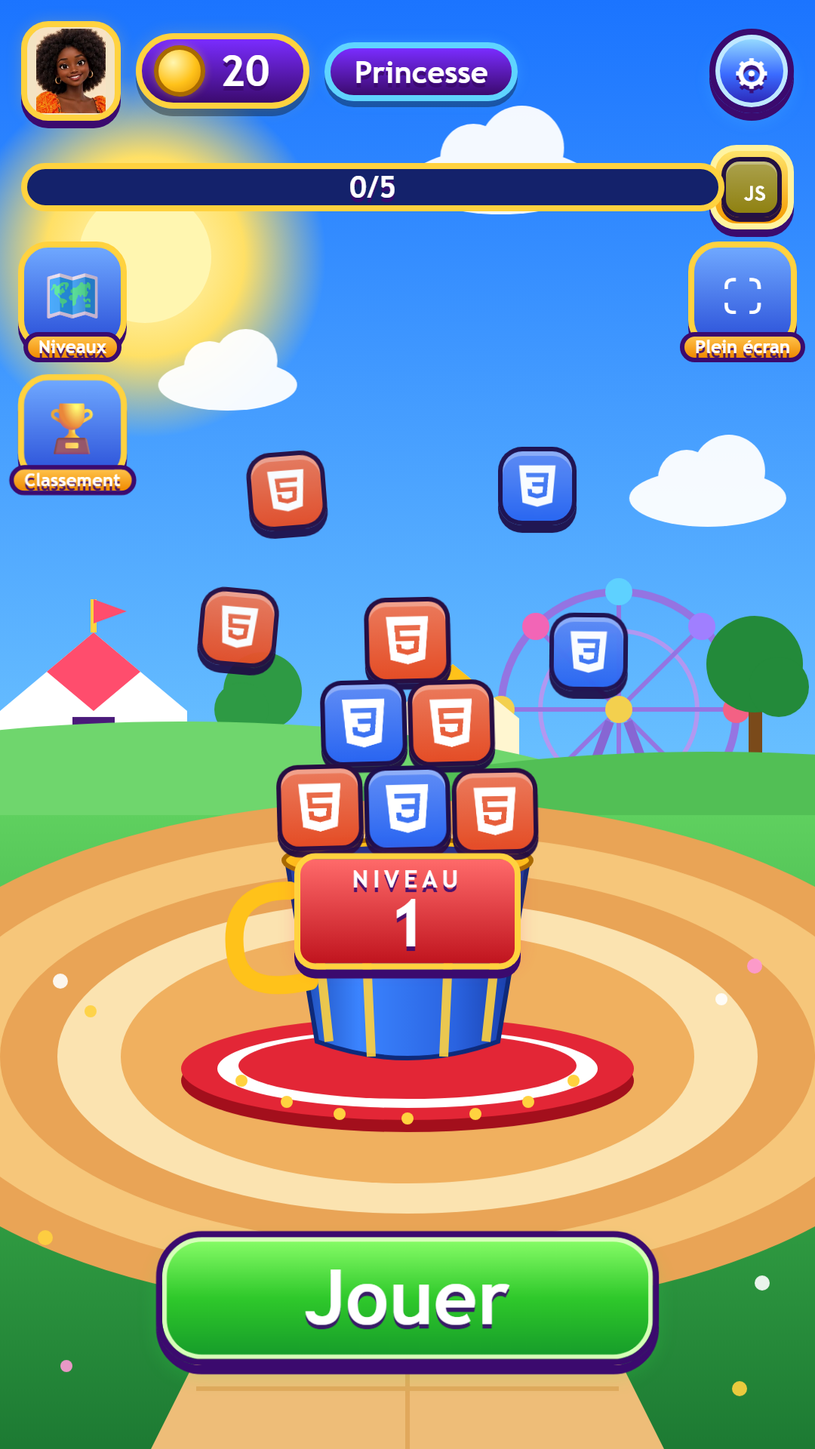
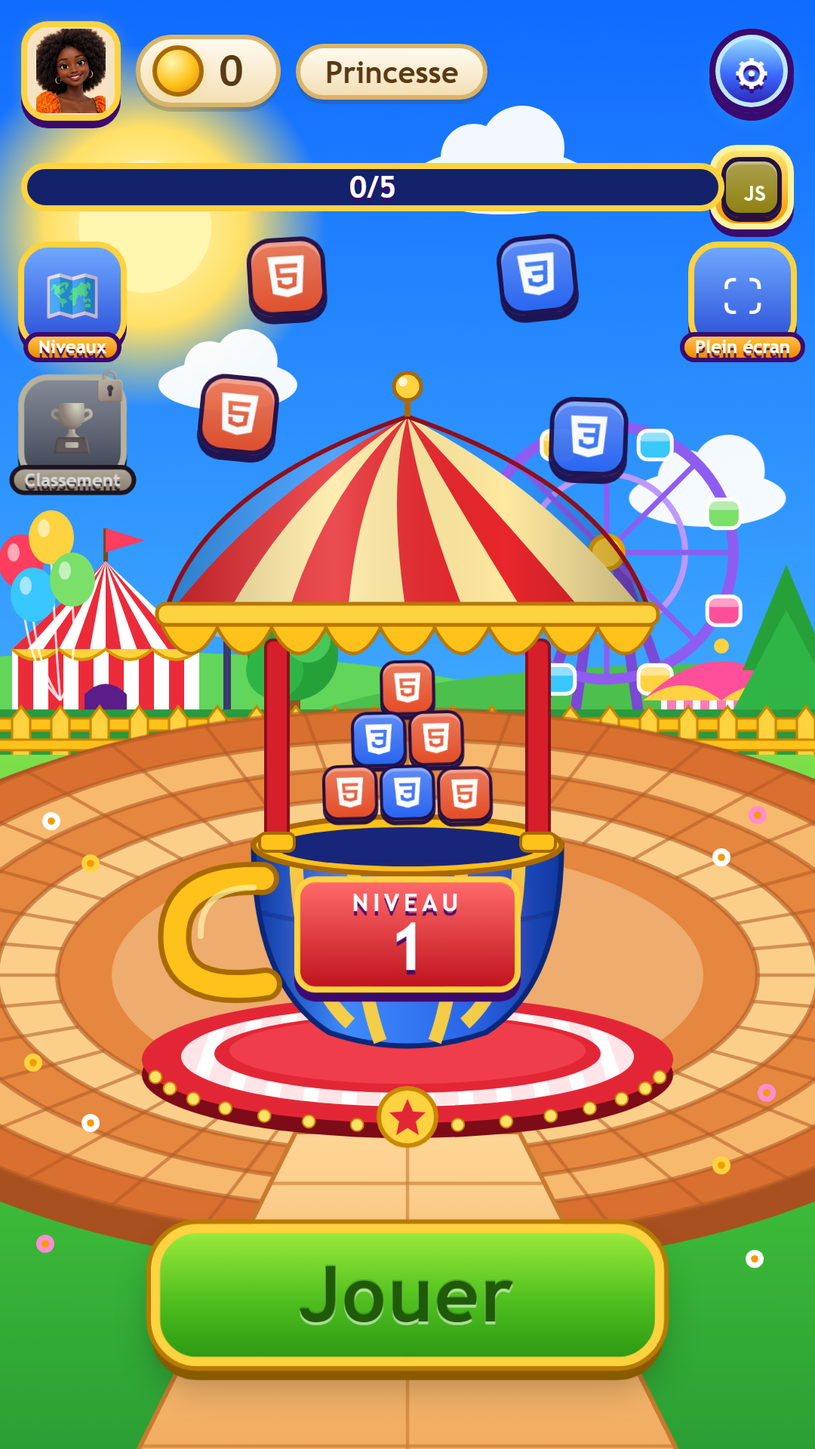
feat(accueil): nouvelle scene d'accueil (auvent rayé, gobelet, place en briques, parc d'attractions), couleurs vives, bouton Jouer et pastilles refaits, paysage gere

diff --git a/public/index.html b/public/index.html
@@ -108,39 +108,122 @@
     <!-- 2. Accueil -->
     <section id="screen-home" class="screen">
       <svg class="home-svg" viewBox="0 0 540 960" preserveAspectRatio="xMidYMax slice" aria-hidden="true">
-        <defs>
-          <linearGradient id="sky" x1="0" y1="0" x2="0" y2="1"><stop offset="0" stop-color="#1b74ff"/><stop offset=".55" stop-color="#6cc3ff"/><stop offset="1" stop-color="#e3f6ff"/></linearGradient>
-          <radialGradient id="sunG"><stop offset="0" stop-color="#fffbd0"/><stop offset=".55" stop-color="#ffe066"/><stop offset="1" stop-color="#ffe066" stop-opacity="0"/></radialGradient>
-          <linearGradient id="grass" x1="0" y1="0" x2="0" y2="1"><stop offset="0" stop-color="#5fd05f"/><stop offset=".5" stop-color="#37a847"/><stop offset="1" stop-color="#1d7a33"/></linearGradient>
-          <linearGradient id="cupG" x1="0" y1="0" x2="1" y2="0"><stop offset="0" stop-color="#173fa8"/><stop offset=".3" stop-color="#3b84ff"/><stop offset=".7" stop-color="#2a63e0"/><stop offset="1" stop-color="#14349a"/></linearGradient>
-          <pattern id="stripes" width="40" height="10" patternUnits="userSpaceOnUse"><rect width="20" height="10" fill="#ffd23f" opacity=".95"/></pattern>
-        </defs>
-        <rect width="540" height="960" fill="url(#sky)"/>
-        <circle cx="96" cy="170" r="120" fill="url(#sunG)"/><circle cx="96" cy="170" r="44" fill="#fff6b0"/>
-        <g fill="#fff" opacity=".95"><g class="svg-cloud c1"><ellipse cx="0" cy="0" rx="60" ry="22"/><circle cx="-18" cy="-16" r="22"/><circle cx="14" cy="-22" r="28"/></g><g class="svg-cloud c2"><ellipse cx="0" cy="0" rx="46" ry="17"/><circle cx="-12" cy="-12" r="17"/><circle cx="12" cy="-16" r="21"/></g><g class="svg-cloud c3"><ellipse cx="0" cy="0" rx="52" ry="19"/><circle cx="-14" cy="-13" r="19"/><circle cx="14" cy="-18" r="24"/></g></g>
-        <!-- loin : grande roue, chapiteaux, arbres -->
-        <g transform="translate(410 470)" opacity=".92"><circle r="78" fill="none" stroke="#9a6fe0" stroke-width="5"/><circle r="52" fill="none" stroke="#b995f0" stroke-width="3"/>
-          <g stroke="#9a6fe0" stroke-width="3"><line x1="-78" y1="0" x2="78" y2="0"/><line x1="0" y1="-78" x2="0" y2="78"/><line x1="-55" y1="-55" x2="55" y2="55"/><line x1="-55" y1="55" x2="55" y2="-55"/></g>
-          <g><circle cx="78" cy="0" r="9" fill="#ff5a7a"/><circle cx="-78" cy="0" r="9" fill="#ffd23f"/><circle cx="0" cy="-78" r="9" fill="#5fd4ff"/><circle cx="0" cy="78" r="9" fill="#7be06a"/><circle cx="55" cy="55" r="9" fill="#ff9a3d"/><circle cx="-55" cy="-55" r="9" fill="#ff5fb0"/><circle cx="55" cy="-55" r="9" fill="#a77bff"/><circle cx="-55" cy="55" r="9" fill="#5fd4ff"/></g>
-          <circle r="9" fill="#ffd23f"/><path d="M-6 8 L-40 100 M6 8 L40 100" stroke="#8a5fd0" stroke-width="6" fill="none"/></g>
-        <g transform="translate(62 505)"><path d="M-62 0 V-34 L0 -86 L62 -34 V0Z" fill="#fff"/><path d="M-62 -34 L0 -86 L-20 -34Z M-20 -34 L0 -86 L20 -34Z" fill="#ff4d6d" opacity=".0"/><path d="M-62 -34 L-31 -60 L0 -34 L31 -60 L62 -34 L0 -86Z" fill="#ff4d6d"/><rect x="-14" y="-30" width="28" height="30" fill="#4a1a7a"/><path d="M0 -86 V-108" stroke="#ffd23f" stroke-width="4"/><path d="M0 -108 L22 -100 L0 -92Z" fill="#ff4d6d"/></g>
-        <g transform="translate(300 500)"><path d="M-44 0 V-24 L0 -60 L44 -24 V0Z" fill="#fff6d0"/><path d="M-44 -24 L-22 -42 L0 -24 L22 -42 L44 -24 L0 -60Z" fill="#ffc21a"/></g>
-        <g fill="#2e9a44"><rect x="170" y="470" width="8" height="30" fill="#7a4a1a"/><circle cx="174" cy="458" r="26"/><circle cx="160" cy="470" r="18"/><rect x="496" y="455" width="9" height="44" fill="#7a4a1a"/><circle cx="500" cy="440" r="32" fill="#238a3a"/><circle cx="516" cy="455" r="20" fill="#238a3a"/></g>
-        <!-- collines et pelouse -->
-        <ellipse cx="120" cy="560" rx="330" ry="82" fill="#6fd66d"/><ellipse cx="470" cy="580" rx="330" ry="82" fill="#52bf55"/>
-        <rect y="540" width="540" height="420" fill="url(#grass)"/>
-        <!-- place ronde en briques -->
-        <ellipse cx="270" cy="700" rx="360" ry="170" fill="#e9a456"/><ellipse cx="270" cy="700" rx="320" ry="148" fill="#f6c67a"/><ellipse cx="270" cy="700" rx="270" ry="124" fill="#e9a456"/><ellipse cx="270" cy="700" rx="232" ry="104" fill="#fbe3b0"/><ellipse cx="270" cy="700" rx="190" ry="84" fill="#f0b05f"/>
-        <path d="M170 820 L100 960 H440 L370 820Z" fill="#eebd78"/><path d="M150 880 H390 M130 920 H410 M270 820 V960" stroke="#d99a4a" stroke-width="3" fill="none" opacity=".6"/>
-        <g opacity=".9"><circle cx="40" cy="650" r="5" fill="#fff"/><circle cx="60" cy="670" r="4" fill="#ffd23f"/><circle cx="500" cy="640" r="5" fill="#ff9ad6"/><circle cx="478" cy="662" r="4" fill="#fff"/><circle cx="30" cy="820" r="5" fill="#ffd23f"/><circle cx="505" cy="850" r="5" fill="#fff"/><circle cx="44" cy="905" r="4" fill="#ff9ad6"/><circle cx="490" cy="920" r="5" fill="#ffd23f"/></g>
-        <!-- gobelet-carrousel -->
-        <ellipse cx="270" cy="716" rx="150" ry="34" fill="#a30f1c"/><ellipse cx="270" cy="708" rx="150" ry="34" fill="#e32636"/><ellipse cx="270" cy="708" rx="126" ry="26" fill="#fff"/><ellipse cx="270" cy="706" rx="112" ry="22" fill="#e32636"/>
-        <g fill="#ffd23f"><circle cx="160" cy="716" r="4"/><circle cx="190" cy="730" r="4"/><circle cx="225" cy="738" r="4"/><circle cx="270" cy="741" r="4"/><circle cx="315" cy="738" r="4"/><circle cx="350" cy="730" r="4"/><circle cx="380" cy="716" r="4"/></g>
-        <path d="M190 570 H350 L330 690 Q270 712 210 690Z" fill="url(#cupG)" stroke="#0e2a7a" stroke-width="3"/>
-        <path d="M205 570 L218 690 M240 570 L246 700 M300 570 L294 700 M335 570 L322 690" stroke="#ffd23f" stroke-width="6" opacity=".9" fill="none"/>
-        <ellipse cx="270" cy="570" rx="82" ry="14" fill="#ffc21a" stroke="#a86a00" stroke-width="3"/><ellipse cx="270" cy="570" rx="70" ry="10" fill="#1a2f8a"/>
-        <path d="M192 590 Q150 590 156 632 Q160 660 205 650" fill="none" stroke="#ffc21a" stroke-width="12" stroke-linecap="round"/>
-      </svg>
+<defs>
+  <linearGradient id="sky" x1="0" y1="0" x2="0" y2="1"><stop offset="0" stop-color="#0f6bff"/><stop offset=".5" stop-color="#3fa9ff"/><stop offset="1" stop-color="#b9e8ff"/></linearGradient>
+  <radialGradient id="sunG"><stop offset="0" stop-color="#fffbd0"/><stop offset=".55" stop-color="#ffe066"/><stop offset="1" stop-color="#ffe066" stop-opacity="0"/></radialGradient>
+  <linearGradient id="grass" x1="0" y1="0" x2="0" y2="1"><stop offset="0" stop-color="#7be04a"/><stop offset=".5" stop-color="#3fbd3a"/><stop offset="1" stop-color="#1f8f30"/></linearGradient>
+  <linearGradient id="cupG" x1="0" y1="0" x2="1" y2="0"><stop offset="0" stop-color="#12389f"/><stop offset=".3" stop-color="#3f8bff"/><stop offset=".7" stop-color="#2a66e8"/><stop offset="1" stop-color="#12389f"/></linearGradient>
+  <linearGradient id="roofG" x1="0" y1="0" x2="1" y2="0"><stop offset="0" stop-color="#000" stop-opacity=".22"/><stop offset=".35" stop-color="#fff" stop-opacity=".18"/><stop offset=".7" stop-color="#000" stop-opacity="0"/><stop offset="1" stop-color="#000" stop-opacity=".25"/></linearGradient>
+  <linearGradient id="pathG" x1="0" y1="0" x2="0" y2="1"><stop offset="0" stop-color="#ffd696"/><stop offset="1" stop-color="#f0a85a"/></linearGradient>
+  <clipPath id="plazaClip"><ellipse cx="270" cy="742" rx="392" ry="176"/></clipPath>
+</defs>
+<rect x="-3000" width="6540" height="960" fill="url(#sky)"/>
+<circle cx="96" cy="150" r="120" fill="url(#sunG)"/><circle cx="96" cy="150" r="44" fill="#fff6b0"/>
+<g fill="#fff" opacity=".95"><g class="svg-cloud c1"><ellipse cx="0" cy="0" rx="60" ry="22"/><circle cx="-18" cy="-16" r="22"/><circle cx="14" cy="-22" r="28"/></g><g class="svg-cloud c2"><ellipse cx="0" cy="0" rx="46" ry="17"/><circle cx="-12" cy="-12" r="17"/><circle cx="12" cy="-16" r="21"/></g><g class="svg-cloud c3"><ellipse cx="0" cy="0" rx="52" ry="19"/><circle cx="-14" cy="-13" r="19"/><circle cx="14" cy="-18" r="24"/></g></g>
+<g transform="translate(0 -96)">
+<rect x="-3000" y="560" width="6540" height="40" fill="#4cc04c"/><ellipse cx="90" cy="590" rx="300" ry="62" fill="#62d65a"/><ellipse cx="470" cy="598" rx="300" ry="62" fill="#4cc04c"/>
+<g transform="translate(402 462)">
+<path d="M-6 0 L-52 128 M6 0 L52 128 M-6 0 L-24 128 M6 0 L24 128" stroke="#7a49d6" stroke-width="7" stroke-linecap="round" fill="none"/>
+<circle r="84" fill="none" stroke="#8f5cf2" stroke-width="7"/><circle r="52" fill="none" stroke="#bd98ff" stroke-width="4"/>
+<line x1="0" y1="0" x2="84.0" y2="0.0" stroke="#8f5cf2" stroke-width="3.5"/>
+<line x1="0" y1="0" x2="59.4" y2="59.4" stroke="#8f5cf2" stroke-width="3.5"/>
+<line x1="0" y1="0" x2="0.0" y2="84.0" stroke="#8f5cf2" stroke-width="3.5"/>
+<line x1="0" y1="0" x2="-59.4" y2="59.4" stroke="#8f5cf2" stroke-width="3.5"/>
+<line x1="0" y1="0" x2="-84.0" y2="0.0" stroke="#8f5cf2" stroke-width="3.5"/>
+<line x1="0" y1="0" x2="-59.4" y2="-59.4" stroke="#8f5cf2" stroke-width="3.5"/>
+<line x1="0" y1="0" x2="-0.0" y2="-84.0" stroke="#8f5cf2" stroke-width="3.5"/>
+<line x1="0" y1="0" x2="59.4" y2="-59.4" stroke="#8f5cf2" stroke-width="3.5"/>
+<g transform="translate(77.6 32.1)"><rect x="-11" y="-3" width="22" height="19" rx="6" fill="#ff4f9a" stroke="#fff" stroke-width="2.5"/><rect x="-11" y="-3" width="22" height="7" rx="3" fill="#fff" opacity=".45"/></g>
+<g transform="translate(32.1 77.6)"><rect x="-11" y="-3" width="22" height="19" rx="6" fill="#ffd23f" stroke="#fff" stroke-width="2.5"/><rect x="-11" y="-3" width="22" height="7" rx="3" fill="#fff" opacity=".45"/></g>
+<g transform="translate(-32.1 77.6)"><rect x="-11" y="-3" width="22" height="19" rx="6" fill="#38c7ff" stroke="#fff" stroke-width="2.5"/><rect x="-11" y="-3" width="22" height="7" rx="3" fill="#fff" opacity=".45"/></g>
+<g transform="translate(-77.6 32.1)"><rect x="-11" y="-3" width="22" height="19" rx="6" fill="#7be06a" stroke="#fff" stroke-width="2.5"/><rect x="-11" y="-3" width="22" height="7" rx="3" fill="#fff" opacity=".45"/></g>
+<g transform="translate(-77.6 -32.1)"><rect x="-11" y="-3" width="22" height="19" rx="6" fill="#ff4f9a" stroke="#fff" stroke-width="2.5"/><rect x="-11" y="-3" width="22" height="7" rx="3" fill="#fff" opacity=".45"/></g>
+<g transform="translate(-32.1 -77.6)"><rect x="-11" y="-3" width="22" height="19" rx="6" fill="#ffd23f" stroke="#fff" stroke-width="2.5"/><rect x="-11" y="-3" width="22" height="7" rx="3" fill="#fff" opacity=".45"/></g>
+<g transform="translate(32.1 -77.6)"><rect x="-11" y="-3" width="22" height="19" rx="6" fill="#38c7ff" stroke="#fff" stroke-width="2.5"/><rect x="-11" y="-3" width="22" height="7" rx="3" fill="#fff" opacity=".45"/></g>
+<g transform="translate(77.6 -32.1)"><rect x="-11" y="-3" width="22" height="19" rx="6" fill="#7be06a" stroke="#fff" stroke-width="2.5"/><rect x="-11" y="-3" width="22" height="7" rx="3" fill="#fff" opacity=".45"/></g>
+<circle r="11" fill="#ffd23f" stroke="#e0a000" stroke-width="3"/></g>
+<g transform="translate(70 586)">
+<rect x="-62" y="-60" width="124" height="60" fill="#fff"/>
+<rect x="-58" y="-60" width="10" height="60" fill="#ec2b3a"/>
+<rect x="-38" y="-60" width="10" height="60" fill="#ec2b3a"/>
+<rect x="-18" y="-60" width="10" height="60" fill="#ec2b3a"/>
+<rect x="2" y="-60" width="10" height="60" fill="#ec2b3a"/>
+<rect x="22" y="-60" width="10" height="60" fill="#ec2b3a"/>
+<rect x="42" y="-60" width="10" height="60" fill="#ec2b3a"/>
+<path d="M-62 -60 L0 -118 L62 -60Z" fill="#fff"/>
+<path d="M0 -118 L-62.0 -60 L-51.7 -60Z" fill="#ec2b3a"/>
+<path d="M0 -118 L-41.3 -60 L-31.0 -60Z" fill="#ec2b3a"/>
+<path d="M0 -118 L-20.7 -60 L-10.4 -60Z" fill="#ec2b3a"/>
+<path d="M0 -118 L0.0 -60 L10.3 -60Z" fill="#ec2b3a"/>
+<path d="M0 -118 L20.7 -60 L31.0 -60Z" fill="#ec2b3a"/>
+<path d="M0 -118 L41.3 -60 L51.6 -60Z" fill="#ec2b3a"/>
+<path d="M-62 -60 Q-47 -46 -31 -60 Q-16 -46 0 -60 Q16 -46 31 -60 Q47 -46 62 -60" fill="#ffd23f" stroke="#d99700" stroke-width="2"/>
+<path d="M-14 0 V-30 Q0 -44 14 -30 V0Z" fill="#5a1d8a"/><path d="M0 -118 V-140" stroke="#7a4a1a" stroke-width="3"/><path d="M0 -140 L26 -132 L0 -124Z" fill="#ff3d5e"/></g>
+<path d="M14 484 Q18 540 40 560" stroke="#fff" stroke-width="1.5" fill="none" opacity=".8"/><ellipse cx="14" cy="468" rx="15" ry="18" fill="#ff3d5e"/><ellipse cx="9" cy="462" rx="4" ry="6" fill="#fff" opacity=".55"/>
+<path d="M34 468 Q38 540 40 560" stroke="#fff" stroke-width="1.5" fill="none" opacity=".8"/><ellipse cx="34" cy="452" rx="15" ry="18" fill="#ffd23f"/><ellipse cx="29" cy="446" rx="4" ry="6" fill="#fff" opacity=".55"/>
+<path d="M22 506 Q26 540 40 560" stroke="#fff" stroke-width="1.5" fill="none" opacity=".8"/><ellipse cx="22" cy="490" rx="15" ry="18" fill="#38c7ff"/><ellipse cx="17" cy="484" rx="4" ry="6" fill="#fff" opacity=".55"/>
+<path d="M48 496 Q52 540 40 560" stroke="#fff" stroke-width="1.5" fill="none" opacity=".8"/><ellipse cx="48" cy="480" rx="15" ry="18" fill="#7be06a"/><ellipse cx="43" cy="474" rx="4" ry="6" fill="#fff" opacity=".55"/>
+<g transform="translate(478 586)"><rect x="-40" y="-26" width="80" height="26" fill="#fff"/>
+<rect x="-36" y="-26" width="6" height="26" fill="#ff7ab8"/>
+<rect x="-25" y="-26" width="6" height="26" fill="#ff7ab8"/>
+<rect x="-14" y="-26" width="6" height="26" fill="#ff7ab8"/>
+<rect x="-3" y="-26" width="6" height="26" fill="#ff7ab8"/>
+<rect x="8" y="-26" width="6" height="26" fill="#ff7ab8"/>
+<rect x="19" y="-26" width="6" height="26" fill="#ff7ab8"/>
+<rect x="30" y="-26" width="6" height="26" fill="#ff7ab8"/>
+<path d="M-52 -26 Q0 -78 52 -26Z" fill="#ff4f9a"/><path d="M-52 -26 Q-26 -46 0 -26 Q26 -46 52 -26" fill="#ffd23f"/><circle cx="0" cy="-62" r="5" fill="#ffd23f"/></g>
+<g><rect x="190" y="548" width="9" height="36" fill="#8a5a22"/><circle cx="194" cy="530" r="30" fill="#26a13a"/><circle cx="182" cy="540" r="19" fill="#2fb546"/><circle cx="204" cy="520" r="15" fill="#46c95a"/></g>
+<g><rect x="516" y="548" width="10" height="38" fill="#8a5a22"/><path d="M521 470 L492 540 L550 540Z" fill="#26a13a"/><path d="M521 500 L486 566 L556 566Z" fill="#2fb546"/></g>
+<g><rect x="148" y="508" width="5" height="78" fill="#3b3b6e"/><rect x="141" y="494" width="19" height="18" rx="5" fill="#ffd23f" stroke="#b07a00" stroke-width="2"/><circle cx="150" cy="503" r="16" fill="#ffe680" opacity=".4"/></g>
+<rect x="-3000" y="566" width="6540" height="30" rx="14" fill="#2a9a3e"/>
+<rect x="-3000" y="572" width="6540" height="8" fill="#ffc21a" stroke="#c98800" stroke-width="1.5"/>
+<path d="M-1500 600 V572 L-1494 564 L-1488 572 V600Z" fill="#ffd23f" stroke="#c98800" stroke-width="1.6"/><path d="M-1474 600 V572 L-1468 564 L-1462 572 V600Z" fill="#ffd23f" stroke="#c98800" stroke-width="1.6"/><path d="M-1448 600 V572 L-1442 564 L-1436 572 V600Z" fill="#ffd23f" stroke="#c98800" stroke-width="1.6"/><path d="M-1422 600 V572 L-1416 564 L-1410 572 V600Z" fill="#ffd23f" stroke="#c98800" stroke-width="1.6"/><path d="M-1396 600 V572 L-1390 564 L-1384 572 V600Z" fill="#ffd23f" stroke="#c98800" stroke-width="1.6"/><path d="M-1370 600 V572 L-1364 564 L-1358 572 V600Z" fill="#ffd23f" stroke="#c98800" stroke-width="1.6"/><path d="M-1344 600 V572 L-1338 564 L-1332 572 V600Z" fill="#ffd23f" stroke="#c98800" stroke-width="1.6"/><path d="M-1318 600 V572 L-1312 564 L-1306 572 V600Z" fill="#ffd23f" stroke="#c98800" stroke-width="1.6"/><path d="M-1292 600 V572 L-1286 564 L-1280 572 V600Z" fill="#ffd23f" stroke="#c98800" stroke-width="1.6"/><path d="M-1266 600 V572 L-1260 564 L-1254 572 V600Z" fill="#ffd23f" stroke="#c98800" stroke-width="1.6"/><path d="M-1240 600 V572 L-1234 564 L-1228 572 V600Z" fill="#ffd23f" stroke="#c98800" stroke-width="1.6"/><path d="M-1214 600 V572 L-1208 564 L-1202 572 V600Z" fill="#ffd23f" stroke="#c98800" stroke-width="1.6"/><path d="M-1188 600 V572 L-1182 564 L-1176 572 V600Z" fill="#ffd23f" stroke="#c98800" stroke-width="1.6"/><path d="M-1162 600 V572 L-1156 564 L-1150 572 V600Z" fill="#ffd23f" stroke="#c98800" stroke-width="1.6"/><path d="M-1136 600 V572 L-1130 564 L-1124 572 V600Z" fill="#ffd23f" stroke="#c98800" stroke-width="1.6"/><path d="M-1110 600 V572 L-1104 564 L-1098 572 V600Z" fill="#ffd23f" stroke="#c98800" stroke-width="1.6"/><path d="M-1084 600 V572 L-1078 564 L-1072 572 V600Z" fill="#ffd23f" stroke="#c98800" stroke-width="1.6"/><path d="M-1058 600 V572 L-1052 564 L-1046 572 V600Z" fill="#ffd23f" stroke="#c98800" stroke-width="1.6"/><path d="M-1032 600 V572 L-1026 564 L-1020 572 V600Z" fill="#ffd23f" stroke="#c98800" stroke-width="1.6"/><path d="M-1006 600 V572 L-1000 564 L-994 572 V600Z" fill="#ffd23f" stroke="#c98800" stroke-width="1.6"/><path d="M-980 600 V572 L-974 564 L-968 572 V600Z" fill="#ffd23f" stroke="#c98800" stroke-width="1.6"/><path d="M-954 600 V572 L-948 564 L-942 572 V600Z" fill="#ffd23f" stroke="#c98800" stroke-width="1.6"/><path d="M-928 600 V572 L-922 564 L-916 572 V600Z" fill="#ffd23f" stroke="#c98800" stroke-width="1.6"/><path d="M-902 600 V572 L-896 564 L-890 572 V600Z" fill="#ffd23f" stroke="#c98800" stroke-width="1.6"/><path d="M-876 600 V572 L-870 564 L-864 572 V600Z" fill="#ffd23f" stroke="#c98800" stroke-width="1.6"/><path d="M-850 600 V572 L-844 564 L-838 572 V600Z" fill="#ffd23f" stroke="#c98800" stroke-width="1.6"/><path d="M-824 600 V572 L-818 564 L-812 572 V600Z" fill="#ffd23f" stroke="#c98800" stroke-width="1.6"/><path d="M-798 600 V572 L-792 564 L-786 572 V600Z" fill="#ffd23f" stroke="#c98800" stroke-width="1.6"/><path d="M-772 600 V572 L-766 564 L-760 572 V600Z" fill="#ffd23f" stroke="#c98800" stroke-width="1.6"/><path d="M-746 600 V572 L-740 564 L-734 572 V600Z" fill="#ffd23f" stroke="#c98800" stroke-width="1.6"/><path d="M-720 600 V572 L-714 564 L-708 572 V600Z" fill="#ffd23f" stroke="#c98800" stroke-width="1.6"/><path d="M-694 600 V572 L-688 564 L-682 572 V600Z" fill="#ffd23f" stroke="#c98800" stroke-width="1.6"/><path d="M-668 600 V572 L-662 564 L-656 572 V600Z" fill="#ffd23f" stroke="#c98800" stroke-width="1.6"/><path d="M-642 600 V572 L-636 564 L-630 572 V600Z" fill="#ffd23f" stroke="#c98800" stroke-width="1.6"/><path d="M-616 600 V572 L-610 564 L-604 572 V600Z" fill="#ffd23f" stroke="#c98800" stroke-width="1.6"/><path d="M-590 600 V572 L-584 564 L-578 572 V600Z" fill="#ffd23f" stroke="#c98800" stroke-width="1.6"/><path d="M-564 600 V572 L-558 564 L-552 572 V600Z" fill="#ffd23f" stroke="#c98800" stroke-width="1.6"/><path d="M-538 600 V572 L-532 564 L-526 572 V600Z" fill="#ffd23f" stroke="#c98800" stroke-width="1.6"/><path d="M-512 600 V572 L-506 564 L-500 572 V600Z" fill="#ffd23f" stroke="#c98800" stroke-width="1.6"/><path d="M-486 600 V572 L-480 564 L-474 572 V600Z" fill="#ffd23f" stroke="#c98800" stroke-width="1.6"/><path d="M-460 600 V572 L-454 564 L-448 572 V600Z" fill="#ffd23f" stroke="#c98800" stroke-width="1.6"/><path d="M-434 600 V572 L-428 564 L-422 572 V600Z" fill="#ffd23f" stroke="#c98800" stroke-width="1.6"/><path d="M-408 600 V572 L-402 564 L-396 572 V600Z" fill="#ffd23f" stroke="#c98800" stroke-width="1.6"/><path d="M-382 600 V572 L-376 564 L-370 572 V600Z" fill="#ffd23f" stroke="#c98800" stroke-width="1.6"/><path d="M-356 600 V572 L-350 564 L-344 572 V600Z" fill="#ffd23f" stroke="#c98800" stroke-width="1.6"/><path d="M-330 600 V572 L-324 564 L-318 572 V600Z" fill="#ffd23f" stroke="#c98800" stroke-width="1.6"/><path d="M-304 600 V572 L-298 564 L-292 572 V600Z" fill="#ffd23f" stroke="#c98800" stroke-width="1.6"/><path d="M-278 600 V572 L-272 564 L-266 572 V600Z" fill="#ffd23f" stroke="#c98800" stroke-width="1.6"/><path d="M-252 600 V572 L-246 564 L-240 572 V600Z" fill="#ffd23f" stroke="#c98800" stroke-width="1.6"/><path d="M-226 600 V572 L-220 564 L-214 572 V600Z" fill="#ffd23f" stroke="#c98800" stroke-width="1.6"/><path d="M-200 600 V572 L-194 564 L-188 572 V600Z" fill="#ffd23f" stroke="#c98800" stroke-width="1.6"/><path d="M-174 600 V572 L-168 564 L-162 572 V600Z" fill="#ffd23f" stroke="#c98800" stroke-width="1.6"/><path d="M-148 600 V572 L-142 564 L-136 572 V600Z" fill="#ffd23f" stroke="#c98800" stroke-width="1.6"/><path d="M-122 600 V572 L-116 564 L-110 572 V600Z" fill="#ffd23f" stroke="#c98800" stroke-width="1.6"/><path d="M-96 600 V572 L-90 564 L-84 572 V600Z" fill="#ffd23f" stroke="#c98800" stroke-width="1.6"/><path d="M-70 600 V572 L-64 564 L-58 572 V600Z" fill="#ffd23f" stroke="#c98800" stroke-width="1.6"/><path d="M-44 600 V572 L-38 564 L-32 572 V600Z" fill="#ffd23f" stroke="#c98800" stroke-width="1.6"/><path d="M-18 600 V572 L-12 564 L-6 572 V600Z" fill="#ffd23f" stroke="#c98800" stroke-width="1.6"/><path d="M8 600 V572 L14 564 L20 572 V600Z" fill="#ffd23f" stroke="#c98800" stroke-width="1.6"/><path d="M34 600 V572 L40 564 L46 572 V600Z" fill="#ffd23f" stroke="#c98800" stroke-width="1.6"/><path d="M60 600 V572 L66 564 L72 572 V600Z" fill="#ffd23f" stroke="#c98800" stroke-width="1.6"/><path d="M86 600 V572 L92 564 L98 572 V600Z" fill="#ffd23f" stroke="#c98800" stroke-width="1.6"/><path d="M112 600 V572 L118 564 L124 572 V600Z" fill="#ffd23f" stroke="#c98800" stroke-width="1.6"/><path d="M138 600 V572 L144 564 L150 572 V600Z" fill="#ffd23f" stroke="#c98800" stroke-width="1.6"/><path d="M164 600 V572 L170 564 L176 572 V600Z" fill="#ffd23f" stroke="#c98800" stroke-width="1.6"/><path d="M190 600 V572 L196 564 L202 572 V600Z" fill="#ffd23f" stroke="#c98800" stroke-width="1.6"/><path d="M216 600 V572 L222 564 L228 572 V600Z" fill="#ffd23f" stroke="#c98800" stroke-width="1.6"/><path d="M242 600 V572 L248 564 L254 572 V600Z" fill="#ffd23f" stroke="#c98800" stroke-width="1.6"/><path d="M268 600 V572 L274 564 L280 572 V600Z" fill="#ffd23f" stroke="#c98800" stroke-width="1.6"/><path d="M294 600 V572 L300 564 L306 572 V600Z" fill="#ffd23f" stroke="#c98800" stroke-width="1.6"/><path d="M320 600 V572 L326 564 L332 572 V600Z" fill="#ffd23f" stroke="#c98800" stroke-width="1.6"/><path d="M346 600 V572 L352 564 L358 572 V600Z" fill="#ffd23f" stroke="#c98800" stroke-width="1.6"/><path d="M372 600 V572 L378 564 L384 572 V600Z" fill="#ffd23f" stroke="#c98800" stroke-width="1.6"/><path d="M398 600 V572 L404 564 L410 572 V600Z" fill="#ffd23f" stroke="#c98800" stroke-width="1.6"/><path d="M424 600 V572 L430 564 L436 572 V600Z" fill="#ffd23f" stroke="#c98800" stroke-width="1.6"/><path d="M450 600 V572 L456 564 L462 572 V600Z" fill="#ffd23f" stroke="#c98800" stroke-width="1.6"/><path d="M476 600 V572 L482 564 L488 572 V600Z" fill="#ffd23f" stroke="#c98800" stroke-width="1.6"/><path d="M502 600 V572 L508 564 L514 572 V600Z" fill="#ffd23f" stroke="#c98800" stroke-width="1.6"/><path d="M528 600 V572 L534 564 L540 572 V600Z" fill="#ffd23f" stroke="#c98800" stroke-width="1.6"/><path d="M554 600 V572 L560 564 L566 572 V600Z" fill="#ffd23f" stroke="#c98800" stroke-width="1.6"/><path d="M580 600 V572 L586 564 L592 572 V600Z" fill="#ffd23f" stroke="#c98800" stroke-width="1.6"/><path d="M606 600 V572 L612 564 L618 572 V600Z" fill="#ffd23f" stroke="#c98800" stroke-width="1.6"/><path d="M632 600 V572 L638 564 L644 572 V600Z" fill="#ffd23f" stroke="#c98800" stroke-width="1.6"/><path d="M658 600 V572 L664 564 L670 572 V600Z" fill="#ffd23f" stroke="#c98800" stroke-width="1.6"/><path d="M684 600 V572 L690 564 L696 572 V600Z" fill="#ffd23f" stroke="#c98800" stroke-width="1.6"/><path d="M710 600 V572 L716 564 L722 572 V600Z" fill="#ffd23f" stroke="#c98800" stroke-width="1.6"/><path d="M736 600 V572 L742 564 L748 572 V600Z" fill="#ffd23f" stroke="#c98800" stroke-width="1.6"/><path d="M762 600 V572 L768 564 L774 572 V600Z" fill="#ffd23f" stroke="#c98800" stroke-width="1.6"/><path d="M788 600 V572 L794 564 L800 572 V600Z" fill="#ffd23f" stroke="#c98800" stroke-width="1.6"/><path d="M814 600 V572 L820 564 L826 572 V600Z" fill="#ffd23f" stroke="#c98800" stroke-width="1.6"/><path d="M840 600 V572 L846 564 L852 572 V600Z" fill="#ffd23f" stroke="#c98800" stroke-width="1.6"/><path d="M866 600 V572 L872 564 L878 572 V600Z" fill="#ffd23f" stroke="#c98800" stroke-width="1.6"/><path d="M892 600 V572 L898 564 L904 572 V600Z" fill="#ffd23f" stroke="#c98800" stroke-width="1.6"/><path d="M918 600 V572 L924 564 L930 572 V600Z" fill="#ffd23f" stroke="#c98800" stroke-width="1.6"/><path d="M944 600 V572 L950 564 L956 572 V600Z" fill="#ffd23f" stroke="#c98800" stroke-width="1.6"/><path d="M970 600 V572 L976 564 L982 572 V600Z" fill="#ffd23f" stroke="#c98800" stroke-width="1.6"/><path d="M996 600 V572 L1002 564 L1008 572 V600Z" fill="#ffd23f" stroke="#c98800" stroke-width="1.6"/><path d="M1022 600 V572 L1028 564 L1034 572 V600Z" fill="#ffd23f" stroke="#c98800" stroke-width="1.6"/><path d="M1048 600 V572 L1054 564 L1060 572 V600Z" fill="#ffd23f" stroke="#c98800" stroke-width="1.6"/><path d="M1074 600 V572 L1080 564 L1086 572 V600Z" fill="#ffd23f" stroke="#c98800" stroke-width="1.6"/><path d="M1100 600 V572 L1106 564 L1112 572 V600Z" fill="#ffd23f" stroke="#c98800" stroke-width="1.6"/><path d="M1126 600 V572 L1132 564 L1138 572 V600Z" fill="#ffd23f" stroke="#c98800" stroke-width="1.6"/><path d="M1152 600 V572 L1158 564 L1164 572 V600Z" fill="#ffd23f" stroke="#c98800" stroke-width="1.6"/><path d="M1178 600 V572 L1184 564 L1190 572 V600Z" fill="#ffd23f" stroke="#c98800" stroke-width="1.6"/><path d="M1204 600 V572 L1210 564 L1216 572 V600Z" fill="#ffd23f" stroke="#c98800" stroke-width="1.6"/><path d="M1230 600 V572 L1236 564 L1242 572 V600Z" fill="#ffd23f" stroke="#c98800" stroke-width="1.6"/><path d="M1256 600 V572 L1262 564 L1268 572 V600Z" fill="#ffd23f" stroke="#c98800" stroke-width="1.6"/><path d="M1282 600 V572 L1288 564 L1294 572 V600Z" fill="#ffd23f" stroke="#c98800" stroke-width="1.6"/><path d="M1308 600 V572 L1314 564 L1320 572 V600Z" fill="#ffd23f" stroke="#c98800" stroke-width="1.6"/><path d="M1334 600 V572 L1340 564 L1346 572 V600Z" fill="#ffd23f" stroke="#c98800" stroke-width="1.6"/><path d="M1360 600 V572 L1366 564 L1372 572 V600Z" fill="#ffd23f" stroke="#c98800" stroke-width="1.6"/><path d="M1386 600 V572 L1392 564 L1398 572 V600Z" fill="#ffd23f" stroke="#c98800" stroke-width="1.6"/><path d="M1412 600 V572 L1418 564 L1424 572 V600Z" fill="#ffd23f" stroke="#c98800" stroke-width="1.6"/><path d="M1438 600 V572 L1444 564 L1450 572 V600Z" fill="#ffd23f" stroke="#c98800" stroke-width="1.6"/><path d="M1464 600 V572 L1470 564 L1476 572 V600Z" fill="#ffd23f" stroke="#c98800" stroke-width="1.6"/><path d="M1490 600 V572 L1496 564 L1502 572 V600Z" fill="#ffd23f" stroke="#c98800" stroke-width="1.6"/><path d="M1516 600 V572 L1522 564 L1528 572 V600Z" fill="#ffd23f" stroke="#c98800" stroke-width="1.6"/><path d="M1542 600 V572 L1548 564 L1554 572 V600Z" fill="#ffd23f" stroke="#c98800" stroke-width="1.6"/><path d="M1568 600 V572 L1574 564 L1580 572 V600Z" fill="#ffd23f" stroke="#c98800" stroke-width="1.6"/><path d="M1594 600 V572 L1600 564 L1606 572 V600Z" fill="#ffd23f" stroke="#c98800" stroke-width="1.6"/><path d="M1620 600 V572 L1626 564 L1632 572 V600Z" fill="#ffd23f" stroke="#c98800" stroke-width="1.6"/><path d="M1646 600 V572 L1652 564 L1658 572 V600Z" fill="#ffd23f" stroke="#c98800" stroke-width="1.6"/><path d="M1672 600 V572 L1678 564 L1684 572 V600Z" fill="#ffd23f" stroke="#c98800" stroke-width="1.6"/><path d="M1698 600 V572 L1704 564 L1710 572 V600Z" fill="#ffd23f" stroke="#c98800" stroke-width="1.6"/><path d="M1724 600 V572 L1730 564 L1736 572 V600Z" fill="#ffd23f" stroke="#c98800" stroke-width="1.6"/><path d="M1750 600 V572 L1756 564 L1762 572 V600Z" fill="#ffd23f" stroke="#c98800" stroke-width="1.6"/><path d="M1776 600 V572 L1782 564 L1788 572 V600Z" fill="#ffd23f" stroke="#c98800" stroke-width="1.6"/><path d="M1802 600 V572 L1808 564 L1814 572 V600Z" fill="#ffd23f" stroke="#c98800" stroke-width="1.6"/><path d="M1828 600 V572 L1834 564 L1840 572 V600Z" fill="#ffd23f" stroke="#c98800" stroke-width="1.6"/><path d="M1854 600 V572 L1860 564 L1866 572 V600Z" fill="#ffd23f" stroke="#c98800" stroke-width="1.6"/><path d="M1880 600 V572 L1886 564 L1892 572 V600Z" fill="#ffd23f" stroke="#c98800" stroke-width="1.6"/><path d="M1906 600 V572 L1912 564 L1918 572 V600Z" fill="#ffd23f" stroke="#c98800" stroke-width="1.6"/><path d="M1932 600 V572 L1938 564 L1944 572 V600Z" fill="#ffd23f" stroke="#c98800" stroke-width="1.6"/><path d="M1958 600 V572 L1964 564 L1970 572 V600Z" fill="#ffd23f" stroke="#c98800" stroke-width="1.6"/><path d="M1984 600 V572 L1990 564 L1996 572 V600Z" fill="#ffd23f" stroke="#c98800" stroke-width="1.6"/>
+<rect x="-3000" y="586" width="6540" height="7" fill="#ffc21a" stroke="#c98800" stroke-width="1.5"/>
+<!-- pelouse et place -->
+<rect x="-3000" y="596" width="6540" height="560" fill="url(#grass)"/>
+<ellipse cx="60" cy="660" rx="140" ry="22" fill="#8bea55" opacity=".35"/><ellipse cx="480" cy="690" rx="150" ry="24" fill="#8bea55" opacity=".3"/>
+<ellipse cx="270" cy="752" rx="410" ry="186" fill="#a8501f"/>
+<ellipse cx="270" cy="742" rx="392" ry="176" fill="#d9702f"/>
+<ellipse cx="270" cy="742" rx="352" ry="156" fill="#f7b96d"/>
+<ellipse cx="270" cy="742" rx="312" ry="138" fill="#e5873e"/>
+<ellipse cx="270" cy="742" rx="272" ry="118" fill="#fbcf8a"/>
+<ellipse cx="270" cy="742" rx="232" ry="100" fill="#e5873e"/>
+<g clip-path="url(#plazaClip)"><line x1="502.0" y1="742.0" x2="662.0" y2="742.0" stroke="#b35a25" stroke-width="2.2" opacity=".55"/><line x1="498.5" y1="759.4" x2="656.0" y2="772.6" stroke="#b35a25" stroke-width="2.2" opacity=".55"/><line x1="488.0" y1="776.2" x2="638.4" y2="802.2" stroke="#b35a25" stroke-width="2.2" opacity=".55"/><line x1="470.9" y1="792.0" x2="609.5" y2="830.0" stroke="#b35a25" stroke-width="2.2" opacity=".55"/><line x1="447.7" y1="806.3" x2="570.3" y2="855.1" stroke="#b35a25" stroke-width="2.2" opacity=".55"/><line x1="419.1" y1="818.6" x2="522.0" y2="876.8" stroke="#b35a25" stroke-width="2.2" opacity=".55"/><line x1="386.0" y1="828.6" x2="466.0" y2="894.4" stroke="#b35a25" stroke-width="2.2" opacity=".55"/><line x1="349.3" y1="836.0" x2="404.1" y2="907.4" stroke="#b35a25" stroke-width="2.2" opacity=".55"/><line x1="310.3" y1="840.5" x2="338.1" y2="915.3" stroke="#b35a25" stroke-width="2.2" opacity=".55"/><line x1="270.0" y1="842.0" x2="270.0" y2="918.0" stroke="#b35a25" stroke-width="2.2" opacity=".55"/><line x1="229.7" y1="840.5" x2="201.9" y2="915.3" stroke="#b35a25" stroke-width="2.2" opacity=".55"/><line x1="190.7" y1="836.0" x2="135.9" y2="907.4" stroke="#b35a25" stroke-width="2.2" opacity=".55"/><line x1="154.0" y1="828.6" x2="74.0" y2="894.4" stroke="#b35a25" stroke-width="2.2" opacity=".55"/><line x1="120.9" y1="818.6" x2="18.0" y2="876.8" stroke="#b35a25" stroke-width="2.2" opacity=".55"/><line x1="92.3" y1="806.3" x2="-30.3" y2="855.1" stroke="#b35a25" stroke-width="2.2" opacity=".55"/><line x1="69.1" y1="792.0" x2="-69.5" y2="830.0" stroke="#b35a25" stroke-width="2.2" opacity=".55"/><line x1="52.0" y1="776.2" x2="-98.4" y2="802.2" stroke="#b35a25" stroke-width="2.2" opacity=".55"/><line x1="41.5" y1="759.4" x2="-116.0" y2="772.6" stroke="#b35a25" stroke-width="2.2" opacity=".55"/><line x1="38.0" y1="742.0" x2="-122.0" y2="742.0" stroke="#b35a25" stroke-width="2.2" opacity=".55"/><line x1="41.5" y1="724.6" x2="-116.0" y2="711.4" stroke="#b35a25" stroke-width="2.2" opacity=".55"/><line x1="52.0" y1="707.8" x2="-98.4" y2="681.8" stroke="#b35a25" stroke-width="2.2" opacity=".55"/><line x1="69.1" y1="692.0" x2="-69.5" y2="654.0" stroke="#b35a25" stroke-width="2.2" opacity=".55"/><line x1="92.3" y1="677.7" x2="-30.3" y2="628.9" stroke="#b35a25" stroke-width="2.2" opacity=".55"/><line x1="120.9" y1="665.4" x2="18.0" y2="607.2" stroke="#b35a25" stroke-width="2.2" opacity=".55"/><line x1="154.0" y1="655.4" x2="74.0" y2="589.6" stroke="#b35a25" stroke-width="2.2" opacity=".55"/><line x1="190.7" y1="648.0" x2="135.9" y2="576.6" stroke="#b35a25" stroke-width="2.2" opacity=".55"/><line x1="229.7" y1="643.5" x2="201.9" y2="568.7" stroke="#b35a25" stroke-width="2.2" opacity=".55"/><line x1="270.0" y1="642.0" x2="270.0" y2="566.0" stroke="#b35a25" stroke-width="2.2" opacity=".55"/><line x1="310.3" y1="643.5" x2="338.1" y2="568.7" stroke="#b35a25" stroke-width="2.2" opacity=".55"/><line x1="349.3" y1="648.0" x2="404.1" y2="576.6" stroke="#b35a25" stroke-width="2.2" opacity=".55"/><line x1="386.0" y1="655.4" x2="466.0" y2="589.6" stroke="#b35a25" stroke-width="2.2" opacity=".55"/><line x1="419.1" y1="665.4" x2="522.0" y2="607.2" stroke="#b35a25" stroke-width="2.2" opacity=".55"/><line x1="447.7" y1="677.7" x2="570.3" y2="628.9" stroke="#b35a25" stroke-width="2.2" opacity=".55"/><line x1="470.9" y1="692.0" x2="609.5" y2="654.0" stroke="#b35a25" stroke-width="2.2" opacity=".55"/><line x1="488.0" y1="707.8" x2="638.4" y2="681.8" stroke="#b35a25" stroke-width="2.2" opacity=".55"/><line x1="498.5" y1="724.6" x2="656.0" y2="711.4" stroke="#b35a25" stroke-width="2.2" opacity=".55"/></g>
+<ellipse cx="270" cy="742" rx="392" ry="176" fill="none" stroke="#b35a25" stroke-width="3" opacity=".6"/>
+<ellipse cx="270" cy="742" rx="352" ry="156" fill="none" stroke="#b35a25" stroke-width="3" opacity=".6"/>
+<ellipse cx="270" cy="742" rx="312" ry="138" fill="none" stroke="#b35a25" stroke-width="3" opacity=".6"/>
+<ellipse cx="270" cy="742" rx="272" ry="118" fill="none" stroke="#b35a25" stroke-width="3" opacity=".6"/>
+<ellipse cx="270" cy="742" rx="232" ry="100" fill="none" stroke="#b35a25" stroke-width="3" opacity=".6"/>
+<ellipse cx="270" cy="742" rx="196" ry="84" fill="#fff0c8" opacity=".35"/>
+<path d="M196 846 L80 1080 H460 L344 846Z" fill="url(#pathG)" stroke="#c97a2e" stroke-width="3"/>
+<line x1="179" y1="880" x2="361" y2="880" stroke="#c97a2e" stroke-width="2.2" opacity=".6"/><line x1="160" y1="918" x2="380" y2="918" stroke="#c97a2e" stroke-width="2.2" opacity=".6"/><line x1="139" y1="960" x2="401" y2="960" stroke="#c97a2e" stroke-width="2.2" opacity=".6"/><line x1="117" y1="1006" x2="423" y2="1006" stroke="#c97a2e" stroke-width="2.2" opacity=".6"/><line x1="93" y1="1054" x2="447" y2="1054" stroke="#c97a2e" stroke-width="2.2" opacity=".6"/><line x1="270" y1="846" x2="270" y2="1080" stroke="#c97a2e" stroke-width="2.2" opacity=".6"/>
+<g><circle cx="34" cy="640" r="6" fill="#fff"/><circle cx="34" cy="640" r="2.4" fill="#f59a00"/><circle cx="60" cy="668" r="6" fill="#ffd23f"/><circle cx="60" cy="668" r="2.4" fill="#f59a00"/><circle cx="502" cy="636" r="6" fill="#ff8ed0"/><circle cx="502" cy="636" r="2.4" fill="#f59a00"/><circle cx="478" cy="664" r="6" fill="#fff"/><circle cx="478" cy="664" r="2.4" fill="#f59a00"/><circle cx="22" cy="800" r="6" fill="#ffd23f"/><circle cx="22" cy="800" r="2.4" fill="#f59a00"/><circle cx="60" cy="840" r="6" fill="#fff"/><circle cx="60" cy="840" r="2.4" fill="#f59a00"/><circle cx="508" cy="820" r="6" fill="#ff8ed0"/><circle cx="508" cy="820" r="2.4" fill="#f59a00"/><circle cx="478" cy="868" r="6" fill="#ffd23f"/><circle cx="478" cy="868" r="2.4" fill="#f59a00"/><circle cx="30" cy="920" r="6" fill="#ff8ed0"/><circle cx="30" cy="920" r="2.4" fill="#f59a00"/><circle cx="500" cy="930" r="6" fill="#fff"/><circle cx="500" cy="930" r="2.4" fill="#f59a00"/></g>
+<!-- socle -->
+<ellipse cx="270" cy="808" rx="176" ry="42" fill="#7d0b18"/>
+<ellipse cx="270" cy="798" rx="176" ry="42" fill="#e32636"/>
+<ellipse cx="270" cy="796" rx="150" ry="33" fill="#fff"/>
+<clipPath id="baseIn"><ellipse cx="270" cy="796" rx="150" ry="33"/></clipPath><g clip-path="url(#baseIn)"><path d="M132 765 L144 765 L122 828 L106 828Z" fill="#ffd0d6" opacity=".55"/><path d="M154 765 L166 765 L148 828 L132 828Z" fill="#ffd0d6" opacity=".55"/><path d="M176 765 L188 765 L174 828 L158 828Z" fill="#ffd0d6" opacity=".55"/><path d="M198 765 L210 765 L200 828 L184 828Z" fill="#ffd0d6" opacity=".55"/><path d="M220 765 L232 765 L226 828 L210 828Z" fill="#ffd0d6" opacity=".55"/><path d="M242 765 L254 765 L252 828 L236 828Z" fill="#ffd0d6" opacity=".55"/><path d="M264 765 L276 765 L278 828 L262 828Z" fill="#ffd0d6" opacity=".55"/><path d="M286 765 L298 765 L304 828 L288 828Z" fill="#ffd0d6" opacity=".55"/><path d="M308 765 L320 765 L330 828 L314 828Z" fill="#ffd0d6" opacity=".55"/><path d="M330 765 L342 765 L356 828 L340 828Z" fill="#ffd0d6" opacity=".55"/><path d="M352 765 L364 765 L382 828 L366 828Z" fill="#ffd0d6" opacity=".55"/><path d="M374 765 L386 765 L408 828 L392 828Z" fill="#ffd0d6" opacity=".55"/><path d="M396 765 L408 765 L434 828 L418 828Z" fill="#ffd0d6" opacity=".55"/></g>
+<ellipse cx="270" cy="794" rx="128" ry="26" fill="#e32636"/><ellipse cx="270" cy="792" rx="118" ry="22" fill="#ff5a66" opacity=".45"/>
+<circle cx="103.0" cy="809.5" r="4.2" fill="#ffe266" stroke="#c98800" stroke-width="1"/><circle cx="112.5" cy="817.1" r="4.2" fill="#ffe266" stroke="#c98800" stroke-width="1"/><circle cx="128.1" cy="824.0" r="4.2" fill="#ffe266" stroke="#c98800" stroke-width="1"/><circle cx="149.3" cy="830.2" r="4.2" fill="#ffe266" stroke="#c98800" stroke-width="1"/><circle cx="175.1" cy="835.2" r="4.2" fill="#ffe266" stroke="#c98800" stroke-width="1"/><circle cx="204.6" cy="838.9" r="4.2" fill="#ffe266" stroke="#c98800" stroke-width="1"/><circle cx="236.6" cy="841.2" r="4.2" fill="#ffe266" stroke="#c98800" stroke-width="1"/><circle cx="270.0" cy="842.0" r="4.2" fill="#ffe266" stroke="#c98800" stroke-width="1"/><circle cx="303.4" cy="841.2" r="4.2" fill="#ffe266" stroke="#c98800" stroke-width="1"/><circle cx="335.4" cy="838.9" r="4.2" fill="#ffe266" stroke="#c98800" stroke-width="1"/><circle cx="364.9" cy="835.2" r="4.2" fill="#ffe266" stroke="#c98800" stroke-width="1"/><circle cx="390.7" cy="830.2" r="4.2" fill="#ffe266" stroke="#c98800" stroke-width="1"/><circle cx="411.9" cy="824.0" r="4.2" fill="#ffe266" stroke="#c98800" stroke-width="1"/><circle cx="427.5" cy="817.1" r="4.2" fill="#ffe266" stroke="#c98800" stroke-width="1"/><circle cx="437.0" cy="809.5" r="4.2" fill="#ffe266" stroke="#c98800" stroke-width="1"/>
+<g transform="translate(270 836)"><circle r="19" fill="#ffd23f" stroke="#c98800" stroke-width="3"/><path d="M0 -12 L3.6 -3.6 L12 -3 L5.5 3 L7.5 12 L0 7.2 L-7.5 12 L-5.5 3 L-12 -3 L-3.6 -3.6Z" fill="#e32636"/></g>
+<!-- gobelet -->
+<path d="M168 656 Q168 748 218 780 Q270 798 322 780 Q372 748 372 656Z" fill="url(#cupG)" stroke="#0b2778" stroke-width="3.5"/>
+<path d="M196 662 Q198 744 232 774 M234 666 Q238 750 252 786 M306 666 Q302 750 288 786 M344 662 Q342 744 308 774" stroke="#ffd23f" stroke-width="9" fill="none" opacity=".95"/>
+<path d="M170 700 Q270 724 370 700" stroke="#0b2778" stroke-width="3" fill="none" opacity=".35"/>
+<ellipse cx="270" cy="656" rx="102" ry="19" fill="#ffc21a" stroke="#a86a00" stroke-width="3.5"/><ellipse cx="270" cy="657" rx="88" ry="13" fill="#17267a"/>
+<path d="M174 678 Q112 676 116 722 Q120 756 176 748" fill="none" stroke="#a86a00" stroke-width="22" stroke-linecap="round"/><path d="M174 678 Q112 676 116 722 Q120 756 176 748" fill="none" stroke="#ffc21a" stroke-width="15" stroke-linecap="round"/><path d="M168 684 Q132 684 133 716" fill="none" stroke="#fff3a8" stroke-width="4" stroke-linecap="round" opacity=".7"/>
+<g>
+<rect x="176" y="520" width="15" height="138" rx="5" fill="#d71f2c" stroke="#8e0f1c" stroke-width="2"/><rect x="349" y="520" width="15" height="138" rx="5" fill="#d71f2c" stroke="#8e0f1c" stroke-width="2"/>
+<rect x="172" y="648" width="23" height="12" rx="4" fill="#ffc21a" stroke="#a86a00" stroke-width="2"/><rect x="345" y="648" width="23" height="12" rx="4" fill="#ffc21a" stroke="#a86a00" stroke-width="2"/>
+</g>
+<g><path d="M270 372 Q175 420 108 508 L148 508 Q223 420 270 372Z" fill="#e8262b"/><path d="M270 372 Q195 420 148 508 L189 508 Q244 420 270 372Z" fill="#ffe9a0"/><path d="M270 372 Q216 420 189 508 L230 508 Q264 420 270 372Z" fill="#e8262b"/><path d="M270 372 Q236 420 230 508 L270 508 Q284 420 270 372Z" fill="#ffe9a0"/><path d="M270 372 Q256 420 270 508 L310 508 Q304 420 270 372Z" fill="#e8262b"/><path d="M270 372 Q276 420 310 508 L351 508 Q324 420 270 372Z" fill="#ffe9a0"/><path d="M270 372 Q296 420 351 508 L392 508 Q345 420 270 372Z" fill="#e8262b"/><path d="M270 372 Q317 420 392 508 L432 508 Q365 420 270 372Z" fill="#ffe9a0"/></g>
+<path d="M270 372 Q130 420 108 508 L432 508 Q410 420 270 372Z" fill="url(#roofG)"/>
+<path d="M270 372 Q130 420 108 508 M270 372 Q410 420 432 508" stroke="#8e0f1c" stroke-width="3" fill="none"/>
+<g><path d="M108 504 H144 V512 Q126 546 108 512Z" fill="#ffc21a" stroke="#b87800" stroke-width="2.2"/><path d="M144 504 H180 V512 Q162 546 144 512Z" fill="#ffc21a" stroke="#b87800" stroke-width="2.2"/><path d="M180 504 H216 V512 Q198 546 180 512Z" fill="#ffc21a" stroke="#b87800" stroke-width="2.2"/><path d="M216 504 H252 V512 Q234 546 216 512Z" fill="#ffc21a" stroke="#b87800" stroke-width="2.2"/><path d="M252 504 H288 V512 Q270 546 252 512Z" fill="#ffc21a" stroke="#b87800" stroke-width="2.2"/><path d="M288 504 H324 V512 Q306 546 288 512Z" fill="#ffc21a" stroke="#b87800" stroke-width="2.2"/><path d="M324 504 H360 V512 Q342 546 324 512Z" fill="#ffc21a" stroke="#b87800" stroke-width="2.2"/><path d="M360 504 H396 V512 Q378 546 360 512Z" fill="#ffc21a" stroke="#b87800" stroke-width="2.2"/><path d="M396 504 H432 V512 Q414 546 396 512Z" fill="#ffc21a" stroke="#b87800" stroke-width="2.2"/></g>
+<rect x="104" y="496" width="332" height="14" rx="6" fill="#ffd23f" stroke="#b87800" stroke-width="2.5"/>
+<path d="M270 372 V358" stroke="#a86a00" stroke-width="4"/><circle cx="270" cy="352" r="9" fill="#ffd23f" stroke="#a86a00" stroke-width="2.5"/><circle cx="267" cy="349" r="3" fill="#fff" opacity=".8"/>
+</g>
+</svg>
       <header class="topbar">
         <button class="avatar-btn" id="btn-avatar" title="Profil"><span id="home-avatar"></span></button>
         <div class="pill coin"><span class="coin-icon"></span><b id="home-score">0</b></div>

diff --git a/public/css/home2.css b/public/css/home2.css
@@ -104,3 +104,20 @@
 .panel.win .chest { position: relative; width: 78px; height: 78px; overflow: visible; }
 .panel.win .chest .tcube { width: 54px; height: 54px; border-radius: 14px; }
 .chest .chest-label { position: absolute; top: 100%; left: 50%; transform: translateX(-50%); margin-top: 5px; font-style: normal; font-size: 18px; font-weight: 800; line-height: 1; white-space: nowrap; color: #ffd23f; -webkit-text-stroke: 4px #a63a00; paint-order: stroke fill; text-shadow: 0 2px 0 #a63a00; }
+
+/* ===== accueil v2 : tout est ancré dans le repère du dessin SVG (540 x 960), mis à l'échelle comme lui ===== */
+.home-center { position: absolute !important; left: 50%; bottom: 0; width: 540px; height: 960px; margin: 0 0 0 -270px !important; transform: scale(var(--hk, 1)); transform-origin: 50% 100%; z-index: 3 !important; display: block !important; flex: none; pointer-events: none; }
+.podium { position: absolute; left: 120px; top: 380px; bottom: auto; width: 300px; height: 300px; transform: none; }
+.podium .mini-stack { bottom: 128px; }
+.podium .mc { width: 36px; height: 36px; padding: 6px; border-radius: 10px; border-width: 2px; box-shadow: 0 3px 0 rgba(28, 10, 66, .95), inset 0 2px 0 rgba(255, 255, 255, .3); }
+.podium .plate { top: auto; bottom: 18px; min-width: 150px; padding: 4px 18px 6px; }
+.floaters { left: 80px; top: 150px; bottom: auto; width: 380px; height: 300px; margin: 0; transform: none; }
+
+/* pastilles crème et bouton Jouer vert à cadre doré (comme la référence) */
+.topbar .pill { background: linear-gradient(#fffaf0, #f3dfb4); border: 3px solid #d9b46a; color: #5a3a12; text-shadow: none; box-shadow: 0 3px 0 rgba(90, 58, 18, .25); }
+.topbar .pill b, .topbar .pill span { color: #5a3a12; text-shadow: none; }
+.chest-bar .bar i { background: linear-gradient(#a6f23c, #3dbb1e); }
+.btn.big.play { background: linear-gradient(#9aea3a, #4fbf1f 55%, #2f9a14); border: 6px solid #ffd23f; box-shadow: 0 0 0 3px #b67b00, 0 9px 0 #8a5a00, 0 14px 22px rgba(0, 0, 0, .25); color: #1f5a08; text-shadow: 0 2px 0 rgba(255, 255, 255, .55); }
+.btn.big.play b { color: #1f5a08; letter-spacing: 1px; text-shadow: 0 2px 0 rgba(255, 255, 255, .55), 0 -1px 0 rgba(0, 0, 0, .15); }
+
+.home-svg { overflow: visible; }

diff --git a/public/js/ui.js b/public/js/ui.js
@@ -30,7 +30,9 @@
     const r = Game.fit(innerWidth, innerHeight);
     stage.style.width = r.W + 'px'; stage.style.height = r.H + 'px';
     stage.style.setProperty('--s', r.scale);
-    stage.style.setProperty('--hk', Math.max(r.W / 540, r.H / 960));
+    const wide = r.W / r.H > 0.75;                                   // paysage : le décor tient en hauteur et se prolonge sur les côtés
+    document.querySelector('.home-svg').setAttribute('preserveAspectRatio', wide ? 'xMidYMax meet' : 'xMidYMax slice');
+    stage.style.setProperty('--hk', wide ? r.H / 960 : Math.max(r.W / 540, r.H / 960));
     stage.classList.toggle('wide', r.W >= 760);
     stage.classList.toggle('short', r.H < 820);
   }
